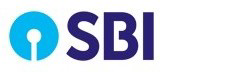
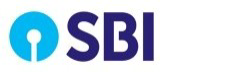
made layout better and updated metadata

diff --git a/pdfservice/src/main/java/com/bqka/pdfservice/template/banks/SbiTemplate.java b/pdfservice/src/main/java/com/bqka/pdfservice/template/banks/SbiTemplate.java
@@ -28,8 +28,13 @@ public class SbiTemplate implements BankPdfTemplate {
     // ================= LOGO =================
 
     private void addLogo(Document doc) throws Exception {
-        Image logo = Image.getInstance("sbi.png"); // PNG, NOT SVG
-        logo.scaleToFit(120, 40);
+        Image logo = Image.getInstance("sbi.jpg");
+        float baseW = 242f;
+        float baseH = 72f;
+
+        float scale = 0.75f;
+
+        logo.scaleToFit(baseW * scale, baseH * scale);
         logo.setAlignment(Image.LEFT);
         doc.add(logo);
     }
@@ -41,15 +46,15 @@ public class SbiTemplate implements BankPdfTemplate {
 
         PdfPTable info = new PdfPTable(3);
         info.setWidthPercentage(100);
-        info.setWidths(new float[] { 32, 3, 65 });
-        info.setSpacingBefore(8);
-        info.setSpacingAfter(10);
+        info.setWidths(new float[] { 17, 1, 65 });
+        info.setSpacingBefore(5);
+        info.setSpacingAfter(0);
 
         addInfo(info, "Account Name", stmt.details.name, fonts);
         addInfo(info, "Address",
                 stmt.details.address != null
                         ? stmt.details.address
-                        : "CUSTOMER ADDRESS\nCITY - 000000",
+                        : "LAXMANPURA PO. UKAWAD\nLAXMANPURA\nLAXMANPURA",
                 fonts);
         addInfo(info, "Date", format(stmt.meta.generatedAt), fonts);
         addInfo(info, "Account Number", stmt.details.accountNumber, fonts);
@@ -64,28 +69,74 @@ public class SbiTemplate implements BankPdfTemplate {
         addInfo(info, "Interest Rate (% p.a.)", "2.5", fonts);
         addInfo(info, "MOD Balance", "0.00", fonts);
         addInfo(info, "CIF No.", generateCif(), fonts);
-        addInfo(info, "IFSC Code", stmt.details.ifsc, fonts);
+        addInfo(info, "CYKCR Number", "", fonts);
+        addInfo(info, "IFS Code\n(Indian Financial System)", stmt.details.ifsc, fonts);
+        addInfo(info, "MICR Code\n(Magnetic Ink Character Recognition)", "473002511", fonts);
+        addInfo(info, "Nomination Registered", "No", fonts);
+        // addInfo(info, "Balance as on 25 Dec 2025", "2,33,213.12", fonts);
 
         doc.add(info);
+        addRow(doc, new float[]{19, 1, 65}, "Balance as on 25 Dec 2025", "2,31,123.12", fonts);
     }
 
-    private void addInfo(
-            PdfPTable table,
-            String label,
-            String value,
-            Fonts fonts) {
-        table.addCell(infoCell(label, fonts.header));
-        table.addCell(infoCell(":", fonts.body));
-        table.addCell(infoCell(value, fonts.body));
+    private void addRow(Document doc, float[] widths,
+            String label, String value, Fonts fonts)
+            throws Exception {
+
+        PdfPTable row = new PdfPTable(3);
+        row.setWidthPercentage(100);
+        row.setSpacingBefore(2);
+        row.setSpacingAfter(3);
+        row.setWidths(widths);
+
+        addInfo(row, label, value, fonts);
+        doc.add(row);
     }
 
-    private PdfPCell infoCell(String text, Font font) {
-        PdfPCell c = new PdfPCell(new Phrase(text, font));
-        c.setBorder(Rectangle.NO_BORDER);
-        c.setPadding(2);
-        c.setVerticalAlignment(Element.ALIGN_TOP);
-        return c;
+    private void addInfo(PdfPTable table, String label, String value, Fonts fonts) {
+        float padTop = 3f;
+        float padBottom = 3f;
+
+        PdfPCell c1 = new PdfPCell(new Phrase(label, fonts.body));
+        c1.setBorder(Rectangle.NO_BORDER);
+        c1.setPaddingTop(padTop);
+        c1.setPaddingBottom(padBottom);
+        c1.setVerticalAlignment(Element.ALIGN_TOP);
+        c1.setUseAscender(true);
+        c1.setUseDescender(true);
+        c1.setNoWrap(true);
+
+        PdfPCell c2 = new PdfPCell(new Phrase(":", fonts.body));
+        c2.setBorder(Rectangle.NO_BORDER);
+        c2.setPaddingTop(padTop);
+        c2.setPaddingBottom(padBottom);
+        c2.setHorizontalAlignment(Element.ALIGN_CENTER);
+        c2.setVerticalAlignment(Element.ALIGN_TOP);
+        c2.setUseAscender(true);
+        c2.setUseDescender(true);
+
+        PdfPCell c3 = new PdfPCell(new Phrase(value, fonts.body));
+        c3.setBorder(Rectangle.NO_BORDER);
+        c3.setPaddingTop(padTop);
+        c3.setPaddingBottom(padBottom);
+
+        c3.setUseAscender(true);
+        c3.setUseDescender(true);
+        c3.setLeading(0f, 1.15f);
+        c3.setVerticalAlignment(Element.ALIGN_TOP);
+
+        table.addCell(c1);
+        table.addCell(c2);
+        table.addCell(c3);
     }
+
+    // private PdfPCell infoCell(String text, Font font) {
+    //     PdfPCell c = new PdfPCell(new Phrase(text, font));
+    //     c.setBorder(Rectangle.NO_BORDER);
+    //     c.setPadding(2);
+    //     c.setVerticalAlignment(Element.ALIGN_TOP);
+    //     return c;
+    // }
 
     // ================= TITLE =================
 
@@ -105,7 +156,7 @@ public class SbiTemplate implements BankPdfTemplate {
                 "Account Statement from " + start + " to " + end,
                 fonts.title);
         title.setSpacingBefore(12);
-        title.setSpacingAfter(6);
+        title.setSpacingAfter(15);
 
         doc.add(title);
     }
@@ -128,13 +179,13 @@ public class SbiTemplate implements BankPdfTemplate {
                 18 // Balance
         });
 
-        addHeader(table, "Txn Date", fonts);
-        addHeader(table, "Value Date", fonts);
-        addHeader(table, "Description", fonts);
-        addHeader(table, "Ref No./Cheque No.", fonts);
-        addHeader(table, "Debit", fonts);
-        addHeader(table, "Credit", fonts);
-        addHeader(table, "Balance", fonts);
+        addHeader(table, "Txn Date", fonts, Element.ALIGN_LEFT);
+        addHeader(table, "Value Date", fonts, Element.ALIGN_LEFT);
+        addHeader(table, "Description", fonts, Element.ALIGN_LEFT);
+        addHeader(table, "Ref No./Cheque No.", fonts, Element.ALIGN_LEFT);
+        addHeader(table, "Debit", fonts, Element.ALIGN_RIGHT);
+        addHeader(table, "Credit", fonts, Element.ALIGN_RIGHT);
+        addHeader(table, "Balance", fonts, Element.ALIGN_RIGHT);
 
         for (Transaction tx : stmt.transactions) {
             table.addCell(bodyCell(format(tx.date), fonts.body, Element.ALIGN_RIGHT));
@@ -149,17 +200,17 @@ public class SbiTemplate implements BankPdfTemplate {
         doc.add(table);
     }
 
-    private void addHeader(PdfPTable table, String text, Fonts fonts) {
+    private void addHeader(PdfPTable table, String text, Fonts fonts, int align) {
         PdfPCell c = new PdfPCell(new Phrase(text, fonts.header));
-        c.setPadding(4);
-        c.setHorizontalAlignment(Element.ALIGN_LEFT);
+        c.setPadding(2);
+        c.setHorizontalAlignment(align);
         c.setBackgroundColor(Color.WHITE);
         table.addCell(c);
     }
 
     private PdfPCell bodyCell(String text, Font font, int align) {
         PdfPCell c = new PdfPCell(new Phrase(text != null ? text : "", font));
-        c.setPadding(3);
+        c.setPadding(2);
         c.setHorizontalAlignment(align);
         c.setVerticalAlignment(Element.ALIGN_TOP);
         return c;

diff --git a/pdfservice/src/main/java/com/bqka/pdfservice/generator/Fonts.java b/pdfservice/src/main/java/com/bqka/pdfservice/generator/Fonts.java
@@ -9,6 +9,7 @@ public class Fonts {
   public final Font header;
   public final Font body;
   public final Font small;
+  public final Font cellTitle;
 
   public Fonts() throws Exception {
 
@@ -24,7 +25,8 @@ public class Fonts {
         BaseFont.NOT_EMBEDDED
     );
 
-    this.title  = new Font(helveticaBold, 12);
+    this.cellTitle = new Font(helveticaBold, 12);
+    this.title  = new Font(helvetica, 12);
     this.header = new Font(helveticaBold, 9);
     this.body   = new Font(helvetica, 9);
     this.small  = new Font(helvetica, 8);

diff --git a/pdfservice/src/main/java/com/bqka/pdfservice/generator/PdfGenerator.java b/pdfservice/src/main/java/com/bqka/pdfservice/generator/PdfGenerator.java
@@ -17,6 +17,7 @@ public class PdfGenerator {
     Document doc = new Document(PageSize.A4, 36, 36, 36, 36);
     PdfWriter.getInstance(doc, out);
 
+    doc.addProducer("iText 2.0.4 (by lowagie.com)");
     doc.open();
 
     Fonts fonts = new Fonts();
